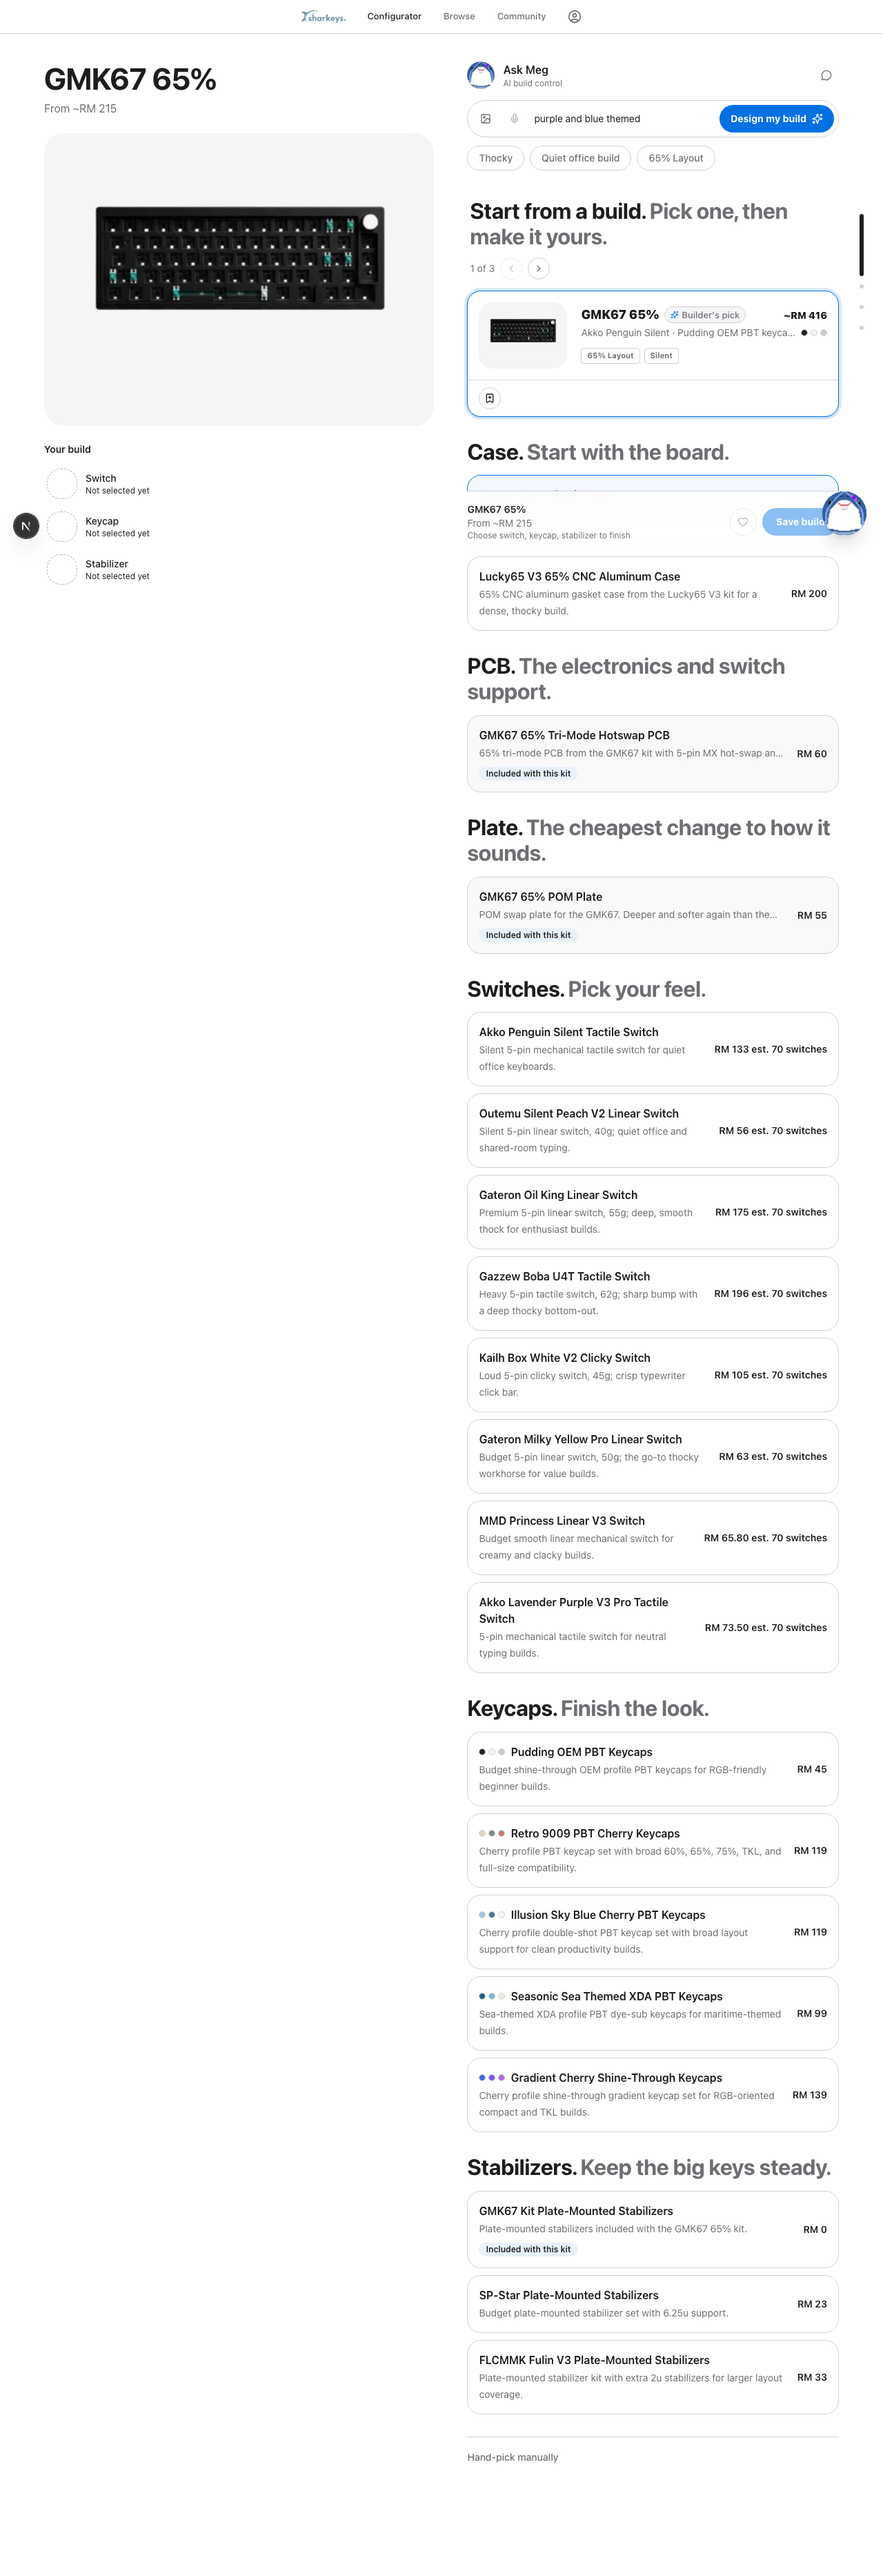
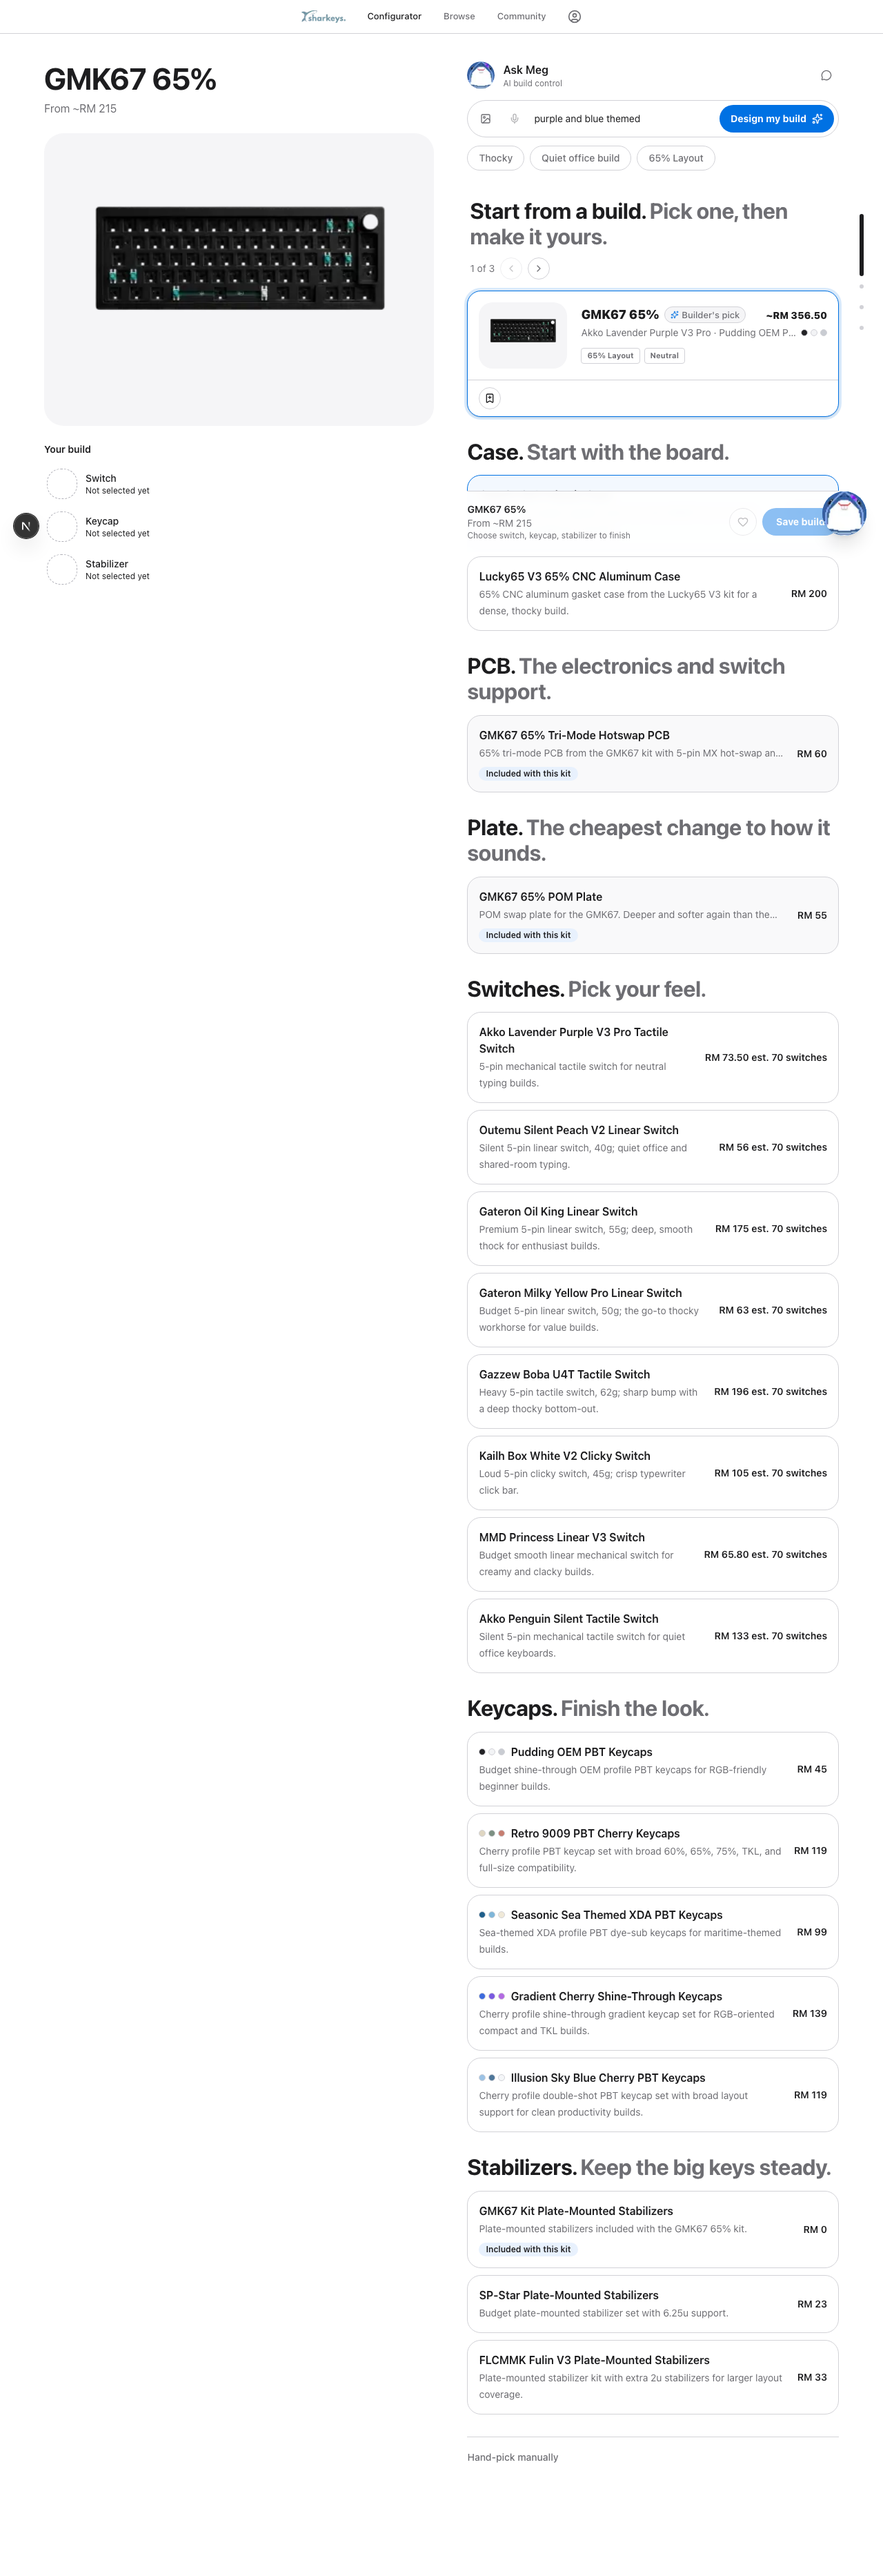
chore(evidence): repoint C1 crop to the recommendation carousel
scoreColourFit ranks assembled builds (service.ts:641), so the claim is visible
in the Start from a build carousel, not in #configurator-section-keycaps, which
is an unsorted picker. The old keycaps crop appeared to refute a claim that is
in fact true. Before-shot retaken from c62e56c.

Changed region(s): [[0.5312, 0.4041, 0.7812, 0.6527], [0.8125, 0.4041, 0.9375, 0.6217], [0.5625, 0.746, 0.8125, 0.8392]]

diff --git a/e2e/uat-evidence.spec.ts b/e2e/uat-evidence.spec.ts
@@ -49,6 +49,12 @@ import { expect, test } from "@playwright/test";
  * the C1 after-shot is traceable to the exact tree that produced it, and pairs
  * uat-before-colourway-* with uat-after-c1-colourway-* for finding 1.
  *
+ * NOTE ON THE COLOUR TAGS: the running app reads the catalog from Supabase
+ * when credentials are configured, NOT from src/data/components.ts. Colour
+ * tags must exist in the database or every component reports no colour, the
+ * ranking term contributes nothing, and the after-shot is identical to the
+ * before-shot for reasons that have nothing to do with the code.
+ *
  * The before-run at the start is NOT split — run the whole spec in one go.
  *
  * The other three findings accept conflation: their after-shots reflect the
@@ -158,15 +164,20 @@ test("finding 1: colourway intent is dropped from the recommendation @c1", async
     path: shot("colourway-full"),
   });
 
-  // The money shot: the keycap options offered in response to an explicitly
-  // colour-led request. In the "before" state these are the catalog's default
-  // keycap set, unfiltered and unordered by colour.
-  const keycaps = page.locator("#configurator-section-keycaps");
-  await keycaps.scrollIntoViewIfNeeded();
-  await expect(keycaps).toBeVisible();
-  await keycaps.screenshot({
+  // The money shot: the "Start from a build" carousel.
+  //
+  // This MUST be the carousel, not #configurator-section-keycaps. scoreColourFit
+  // is applied inside scoreRecommendation, which ranks whole assembled builds —
+  // exactly what the carousel presents. The keycap picker below it renders a
+  // plain catalog listing and is deliberately not colour-ordered, so cropping
+  // it would photograph a component the fix does not touch and appear to refute
+  // a claim that is true.
+  const carousel = page.locator('section[aria-label="Start from a build"]');
+  await carousel.scrollIntoViewIfNeeded();
+  await expect(carousel).toBeVisible();
+  await carousel.screenshot({
     animations: "disabled",
-    path: shot("colourway-keycaps"),
+    path: shot("colourway-carousel"),
   });
 });
 
